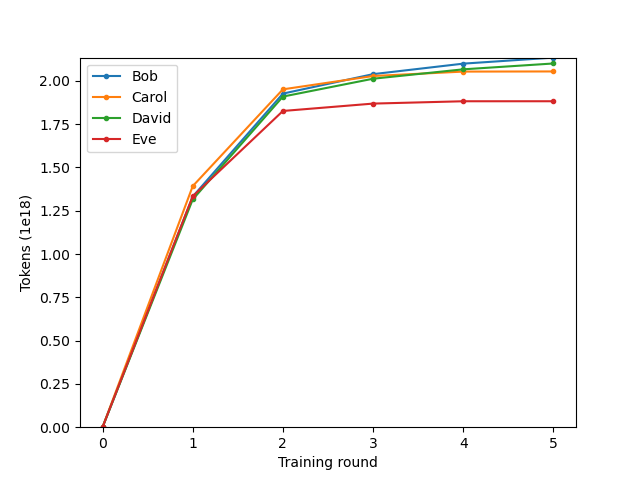
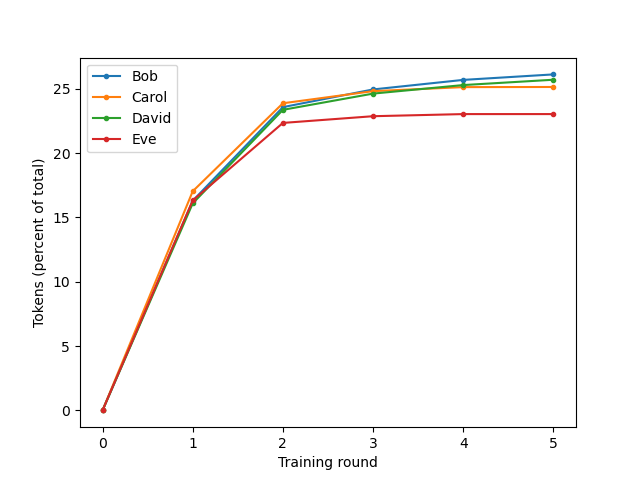
Add details to plots

diff --git a/scripts/plot_tokens.py b/scripts/plot_tokens.py
@@ -30,26 +30,34 @@ def pie(results):
         plt.clf()
 
 
-def counts(results):
-    token_unit = 1e18
+def counts(results, percent=True):
     for r in results:
         n = r['num_trainers']
         names = NAMES[:n]
         round_idxs = range(0, r['final_round_num']+1)
-        max_count = 0
-        for name in names:
-            counts = np.array(r['token_counts'][name]) / token_unit
+        total_count = r['total_token_counts'][-1]
+        if r['split_type'] == 'equal':
+            details = [''] * len(names)
+        if r['split_type'] == 'size':
+            details = [f" (ratio={ratio})" for ratio in r['ratios']]
+        if r['split_type'] == 'flip':
+            details = [f" (prob={prob})" for prob in r['flip_probs']]
+        for name, detail in zip(names, details):
+            counts = np.array(r['token_counts'][name])
             counts = np.insert(counts, 0, 0)  # insert a 0 at the start of counts, as all trainers start with 0 tokens
+            if percent:
+                counts = 100 * (counts / total_count)
             plt.plot(
                 round_idxs,
                 counts,
-                label=name,
+                label=name + detail,
                 marker='.')
-            max_count = max(max_count, np.max(counts))
         plt.xticks(round_idxs)
-        plt.ylim(0, max_count)
         plt.xlabel("Training round")
-        plt.ylabel("Tokens (1e18)")
+        if percent:
+            plt.ylabel("Tokens (percent of total)")
+        else:
+            plt.ylabel("Tokens")
         plt.legend()
         plt.savefig(make_filepath(r, 'counts'))
         plt.clf()
@@ -88,7 +96,8 @@ def make_filepath(r, plot_type):
         path += "-sizes-"
         path += '-'.join([str(k) for k in r['ratios']])
     if r['split_type'] == 'flip':
-        path += f"-flip-prob-{r['flip_probs'][0]}"
+        path += f"-flip-prob-"
+        path += '-'.join([str(p) for p in r['flip_probs']])
     if r['split_type'] == 'unique_digits':
         path += "-unique-"
         path += f"{r['num_trainers']}-trainers-"
